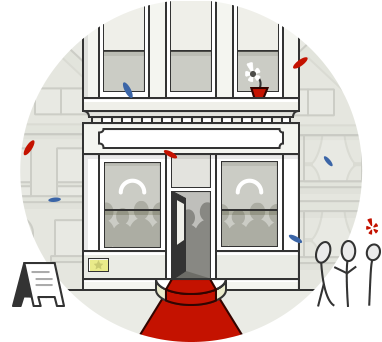
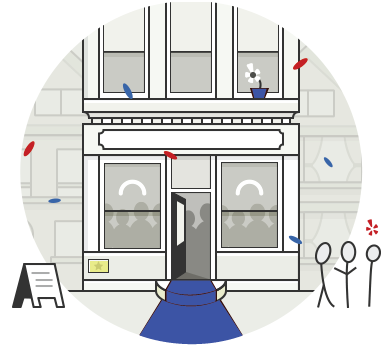
blue test 1

diff --git a/app/assets/stylesheets/restaurant_header.css b/app/assets/stylesheets/restaurant_header.css
@@ -40,7 +40,7 @@ justify-content: flex-end;
 }
 
 .restaurant-logo {
-   background-color: #f40d15;
+   background-color: #465eab;
     width: 102px;
     border-radius: 4px;
     padding: 0 3px;
@@ -83,7 +83,7 @@ justify-content: flex-end;
 
 .restaurant-nav-search button {
     transition: background-color .3s ease;
-    background-color: #d32323;
+    background-color: #2E4BC0;
     color: white;
     border: none;
     width: 56px;
@@ -99,7 +99,7 @@ justify-content: flex-end;
 }
 
 .restaurant-nav-search button:active {
-    background-color: #f40d15;
+    background-color: #465eab;
 }
 
 .restaurant-searchbar-rest {
@@ -148,10 +148,10 @@ justify-content: flex-end;
     margin-left: 12px;
     margin-top: 3px;
     margin-right: 15px;
-    background-color: #f40d15;
+    background-color: #465eab;
     color: white;
     border-radius: 4px;
-    border: solid 1px #f40d15;
+    border: solid 1px #465eab;
     font-weight: 600;
     font-size: 16px;
     text-decoration: none;
@@ -164,10 +164,10 @@ justify-content: flex-end;
     padding: 10px 15px 11px 14px;
     margin-left: 12px;
     margin-right: 40px;
-    background-color: #f40d15;
+    background-color: #465eab;
     color: white;
     border-radius: 4px;
-    border: solid 1px #f40d15;
+    border: solid 1px #465eab;
     font-weight: 600;
     font-size: 16px;
     text-decoration: none;

diff --git a/app/assets/stylesheets/login.css b/app/assets/stylesheets/login.css
@@ -295,7 +295,7 @@
 
 /* password error */
 .login-head {
-    color: #d32323;
+    color: #2E4BC0;
     display: flex;
     justify-content: center;
     font-size: 22px;
@@ -306,7 +306,7 @@
 }
 
 .signup-head {
-    color: #d32323;
+    color: #2E4BC0;
     display: flex;
     justify-content: center;
     font-size: 22px;
@@ -426,11 +426,11 @@
 
 .login-submit {
     color: white;
-    background-color: #d32323;
+    background-color: #2E4BC0;
     width: 100%;
     height: 40px;
     border-radius: 5px;
-    border: solid 1px #d32323;
+    border: solid 1px #2E4BC0;
     padding: 10px 13px;
     font-size: 16px;
     font-weight: bold;

diff --git a/app/assets/stylesheets/nav.css b/app/assets/stylesheets/nav.css
@@ -170,7 +170,7 @@
 
 .nav-search button {
     transition: background-color .6s ease;
-    background-color: #d32323;
+    background-color: #2E4BC0;
     color: white;
     border: none;
     padding: 14px 23px 13px 23px;
@@ -179,11 +179,11 @@
 
 .nav-search button:hover {
     transition: background-color .6s ease;
-    background-color: #b71301;
+    background-color: #2b3278;
 }
 
 .nav-search button:active {
-    background-color: #8d0005;
+    background-color: #244697;
 
 }
 

diff --git a/app/assets/stylesheets/restaurant.css b/app/assets/stylesheets/restaurant.css
@@ -67,7 +67,7 @@
 }
 
 .r-stars {
-    color: #E4574F;
+    color: #6780BF;
 }
 
 .r-review-count {
@@ -91,7 +91,7 @@
 .r-top-review {
     font-weight: bold;
     font-size: 12px;
-    color: #d32323;
+    color: #2E4BC0;
     margin-top: 18px;
     padding: 7px 8px 8px 8px;
     border: solid 1px #ccc;

diff --git a/app/assets/stylesheets/footer.css b/app/assets/stylesheets/footer.css
@@ -9,7 +9,7 @@
 
 .footer-label {
     font-size: 16px;
-    color: #d32323;
+    color: #2E4BC0;
     font-weight: bold;
     margin: 0px 0px 12px 0px;
     font-family: 'Helvetica Neue', Helvetica, Arial, sans-serif;

diff --git a/app/assets/stylesheets/user_reviews.css b/app/assets/stylesheets/user_reviews.css
@@ -29,11 +29,11 @@
 
 .user-redstar {
     font-size: 12px;
-    color: #d2323d;
+    color: #2E4BC0;
 }
 
 .user-redstar2 {
-    color: #d2323d;
+    color: #2E4BC0;
     margin-right: 6px;
 }
 

diff --git a/app/assets/stylesheets/nav_main.css b/app/assets/stylesheets/nav_main.css
@@ -13,7 +13,7 @@
     font-weight: 700;
     font-size: 21px;
     line-height: 1.28571em;
-    color: #d32323;
+    color: #2E4BC0;
 }
 
 .m1-categories {

diff --git a/app/assets/stylesheets/signup_header.css b/app/assets/stylesheets/signup_header.css
@@ -2,7 +2,7 @@
     width: 100%;
     height: 40px;
     padding: 12px 0px;
-    background-color: #d32323;
+    background-color: #2E4BC0;
 }
 
 .hoot {

diff --git a/app/assets/stylesheets/restaurant_index.css b/app/assets/stylesheets/restaurant_index.css
@@ -96,6 +96,6 @@
 }
 
 .ri-stars {
-    color: #E4574F;
+    color: #6780BF;
     width: 115px;
 }
